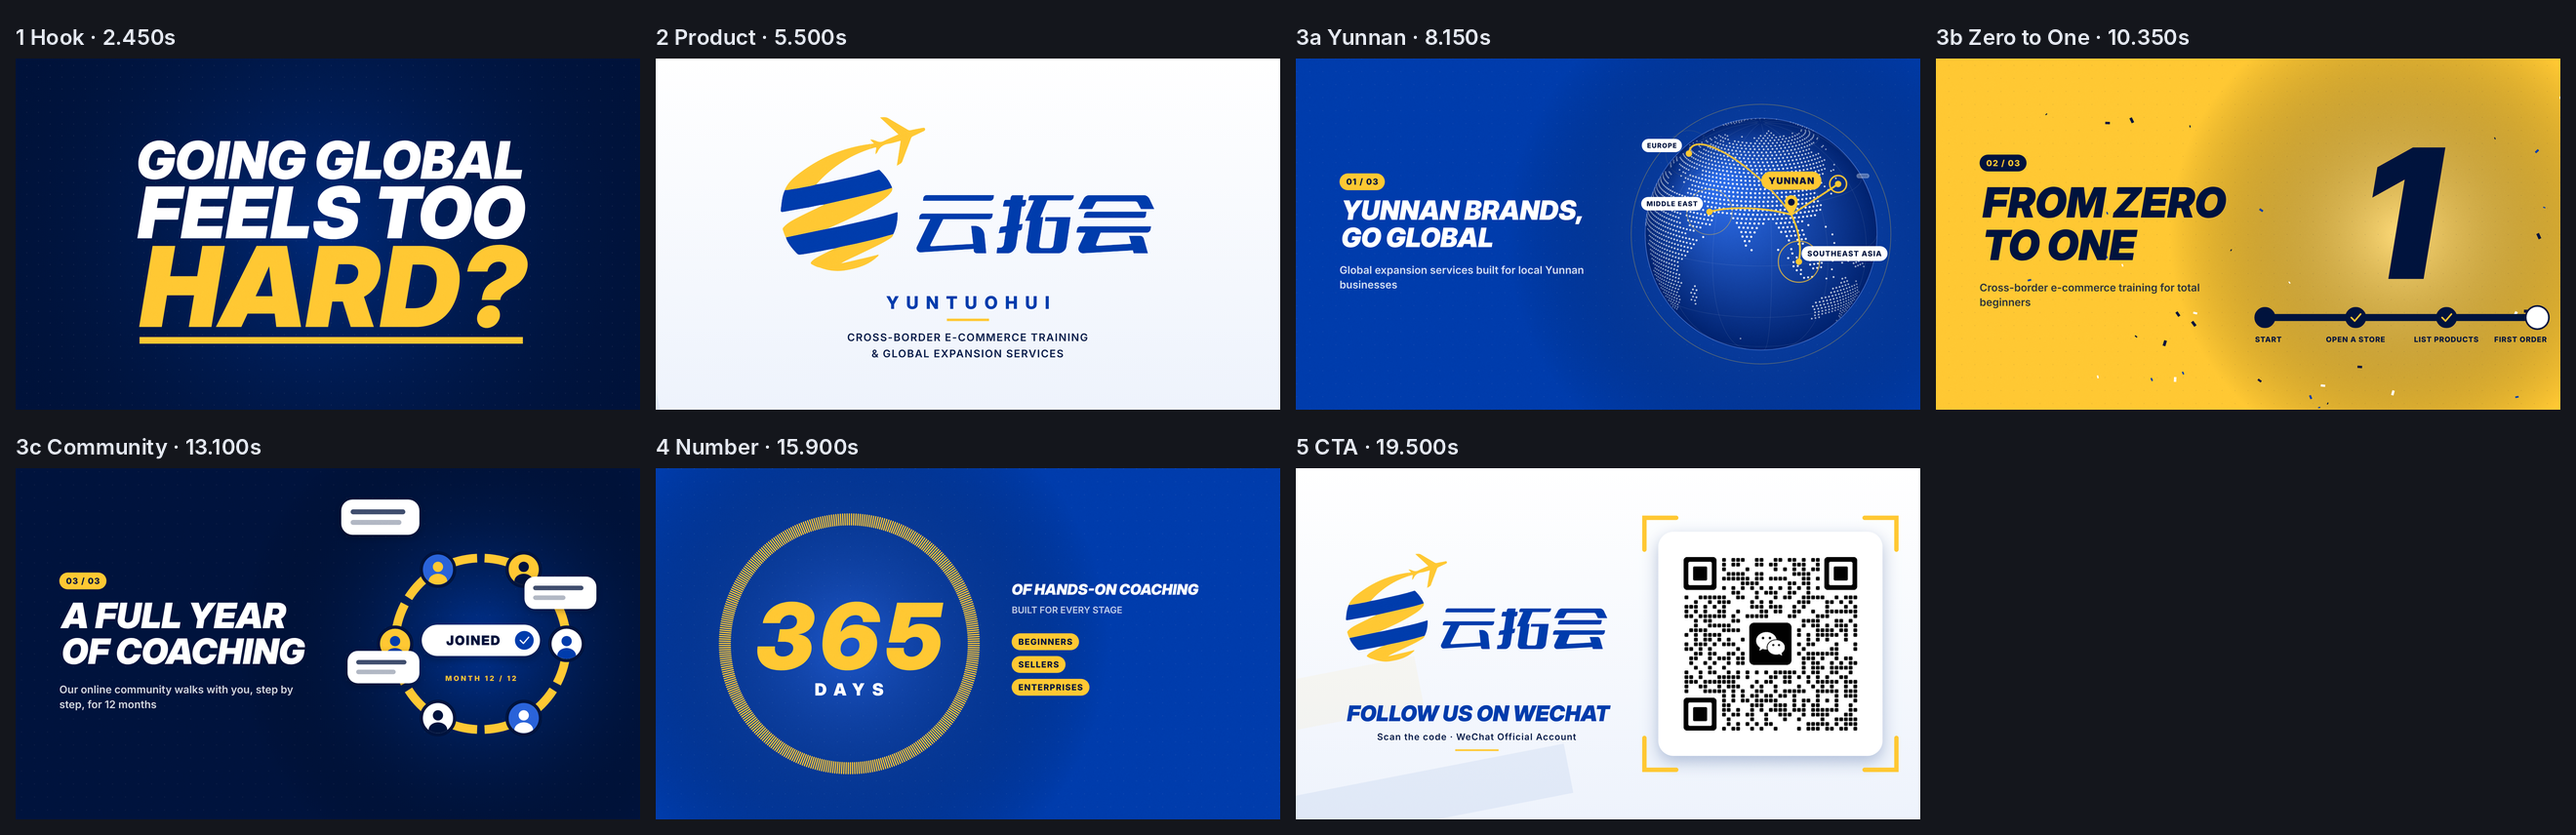
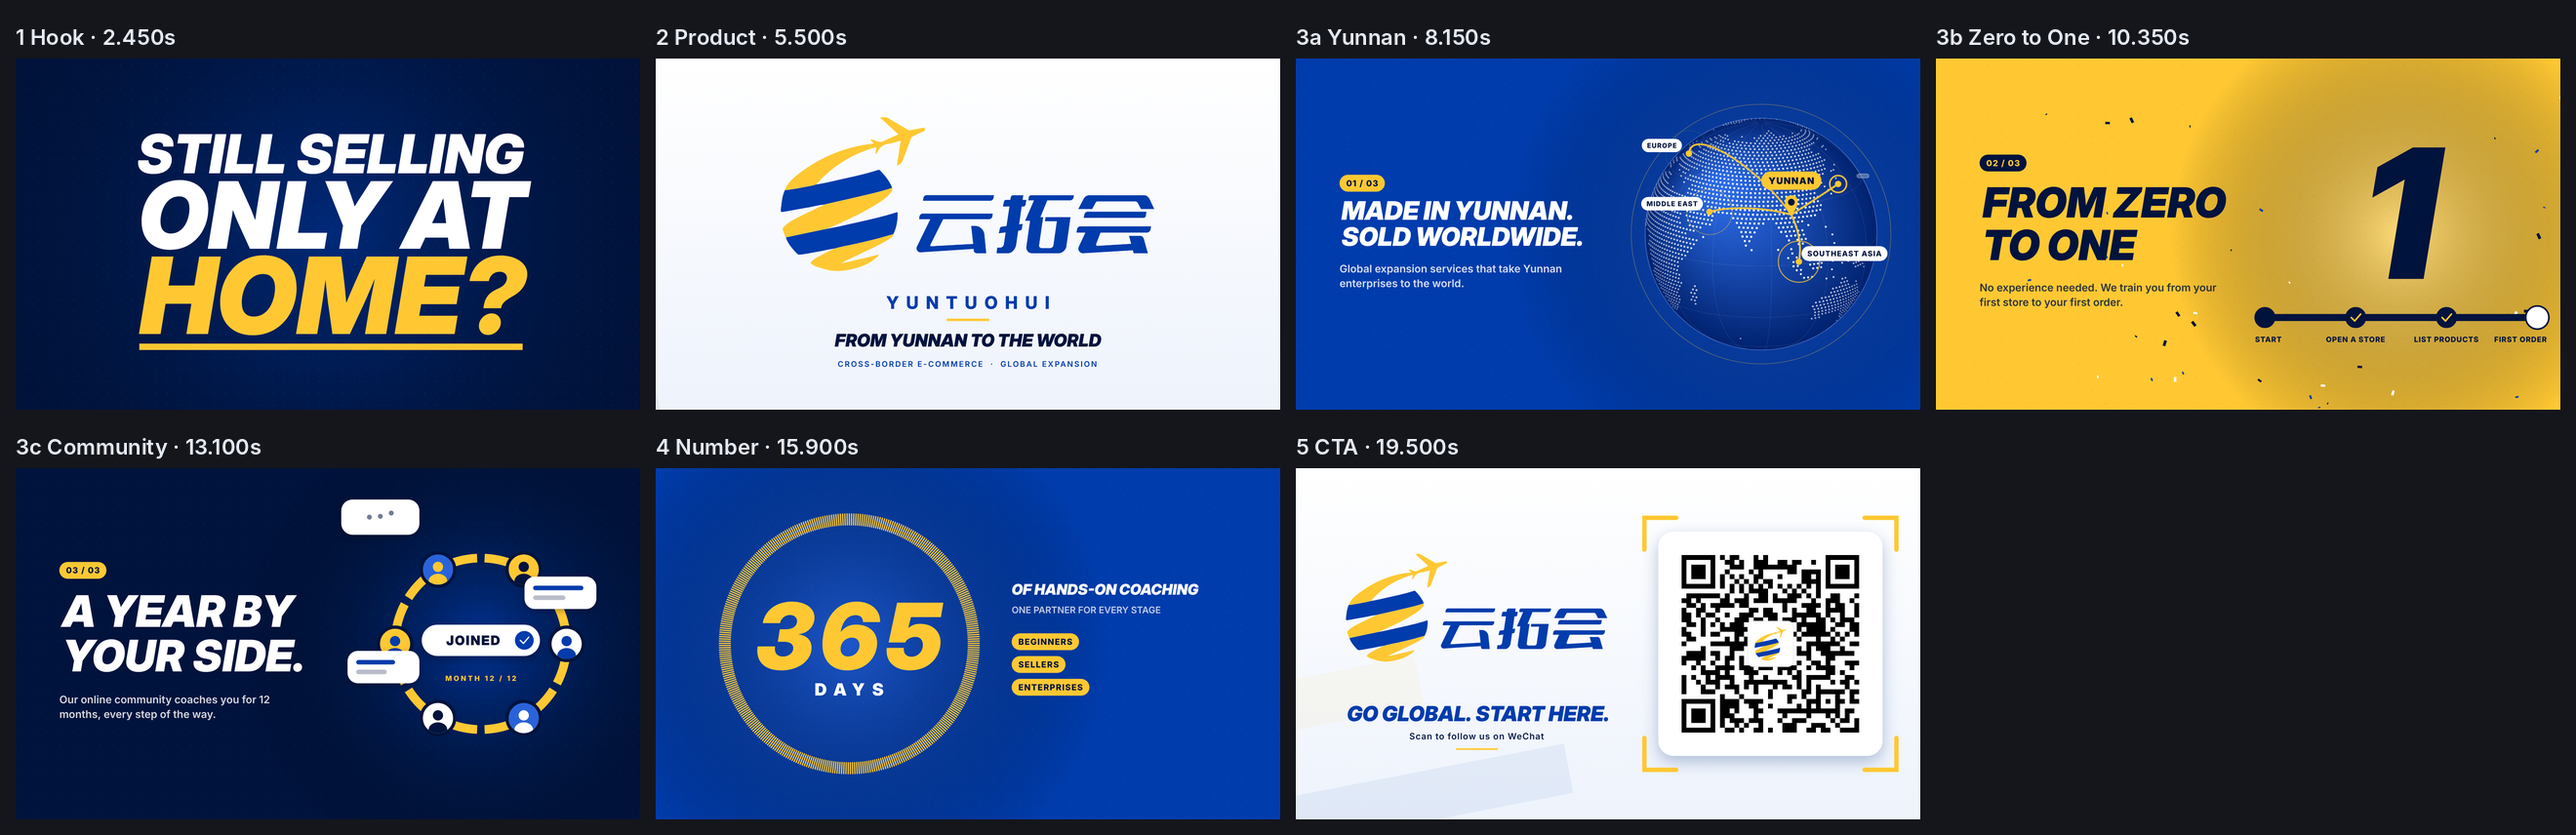
Promo: official-account QR (rebuilt crisp), sharper copy, typing chat bubbles
Claude-Session: https://claude.ai/code/session_01CCd3GVUn9hyy9iVoWSn4xC

diff --git a/promo/src/motion.js b/promo/src/motion.js
@@ -63,7 +63,8 @@ function asmCues(t0, sp, gain) {
 }
 asmCues(3.0, 1, 1);
 cue(4.5, 'tick', 0.7);
-for (let i = 0; i < 12; i++) cue(4.75 + i * 0.0625, 'type', 0.35);
+for (let i = 0; i < 8; i++) cue(5.0 + i * 0.0625, 'type', 0.35);
+cue(4.75, 'swish', 0.5);
 // F1 globe
 cue(7.0, 'click'); cue(7.0, 'drop', 0.8);
 const ROUTES = [
@@ -177,9 +178,9 @@ function layout() {
   const m = P ? 0.075 * W : L ? 0.07 * W : 0.08 * W;
   const lay = { m };
   // hook lines
-  lay.hookLines = P ? [['GOING'], ['GLOBAL'], ['FEELS'], ['TOO'], ['HARD?']]
-    : L ? [['GOING', 'GLOBAL'], ['FEELS', 'TOO'], ['HARD?']]
-      : [['GOING'], ['GLOBAL'], ['FEELS', 'TOO'], ['HARD?']];
+  lay.hookLines = P ? [['STILL'], ['SELLING'], ['ONLY'], ['AT', 'HOME?']]
+    : L ? [['STILL', 'SELLING'], ['ONLY', 'AT'], ['HOME?']]
+      : [['STILL'], ['SELLING'], ['ONLY', 'AT'], ['HOME?']];
   const maxH = P ? H * 0.66 : H * 0.8;
   const contentW = L ? W * 0.62 : W - 2 * m;
   let sizes = lay.hookLines.map(l => fitSize(l.join(' '), 900, DISPLAY, contentW));
@@ -209,7 +210,7 @@ function layout() {
     const my = (P ? 0.31 : 0.25) * H - (LOGO.mark.h * mk) / 2;
     const wy = my + LOGO.mark.h * mk + (P ? 0.045 : 0.05) * H;
     const ty = wy + LOGO.word.h * wk + (P ? 0.075 : 0.08) * H;
-    const bottom = ty + Math.min(W, H) * (0.05 * 0.9 + 0.034 * 3.1);
+    const bottom = ty + Math.min(W, H) * (0.05 * 0.9 + 0.058 * 1.25 + 0.026 * 2.6);
     const dy = H * 0.5 - (my + bottom) / 2;
     lay.logo = { mx: (W - mw) / 2, my: my + dy, mk, wx: (W - ww) / 2, wy: wy + dy, wk, ty: ty + dy };
   }
@@ -341,7 +342,7 @@ function sceneHook(t) {
       if (t < wd.t) return;
       const a = prog(t, wd.t, wd.t + 0.24), e = E.outExpo(a);
       const s = lerp(2.1, 1, e);
-      const last = wd.w === 'HARD?';
+      const last = wd.t === SLAMS[SLAMS.length - 1];
       const cx = wd.x + wd.wd / 2, cy = line.base - (line.size * CAP) / 2;
       const draw = (scale, alpha, color, ox = 0) => {
         ctx.save(); ctx.globalAlpha = alpha; ctx.fillStyle = color; ctx.font = font(900, line.size);
@@ -413,17 +414,21 @@ function sceneLogo(t) {
     ctx.fillText('YUNTUOHUI', W / 2 + size * 0.21, L.ty + (1 - np) * size * 1.3);
     ctx.restore(); ctx.letterSpacing = '0px';
   }
-  const tag = ['CROSS-BORDER E-COMMERCE TRAINING', '& GLOBAL EXPANSION SERVICES'];
-  const ts = Math.min(W, H) * (KIND === 'landscape' ? 0.03 : 0.034);
-  const chars = Math.floor(prog(u, 1.75, 2.5) * (tag[0].length + tag[1].length));
-  ctx.font = font(600, ts, BODY); ctx.fillStyle = C.ink; ctx.letterSpacing = `${ts * 0.08}px`;
-  let left = chars;
-  tag.forEach((line, i) => {
-    const s = line.slice(0, Math.max(0, left)); left -= line.length;
-    const full = ctx.measureText(line).width;
-    ctx.textAlign = 'left';
-    ctx.fillText(s, W / 2 - full / 2, L.ty + size * 0.9 + ts * 1.55 * (i + 1));
-  });
+  const hs = Math.min(W, H) * (KIND === 'landscape' ? 0.05 : 0.058);
+  const hy = L.ty + size * 0.9 + hs * 1.25, hp = E.outExpo(prog(u, 1.75, 2.2));
+  if (hp > 0) {
+    ctx.save(); ctx.beginPath(); ctx.rect(0, hy - hs * 0.95, W, hs * 1.2); ctx.clip();
+    ctx.fillStyle = C.navy; ctx.font = font(900, hs); ctx.textAlign = 'center';
+    skewText('FROM YUNNAN TO THE WORLD', W / 2, hy + (1 - hp) * hs * 1.2);
+    ctx.restore();
+  }
+  const tag = 'CROSS-BORDER E-COMMERCE  ·  GLOBAL EXPANSION';
+  const ts = Math.min(W, H) * (KIND === 'landscape' ? 0.022 : 0.026);
+  const chars = Math.floor(prog(u, 2.0, 2.5) * tag.length);
+  ctx.font = font(600, ts, BODY); ctx.fillStyle = C.blue; ctx.letterSpacing = `${ts * 0.16}px`;
+  const full = ctx.measureText(tag).width;
+  ctx.textAlign = 'left';
+  ctx.fillText(tag.slice(0, chars), W / 2 - full / 2, hy + ts * 2.6);
   ctx.letterSpacing = '0px';
   // yellow accent bar
   const bp = E.outExpo(prog(u, 1.6, 2.1));
@@ -561,7 +566,7 @@ function sceneF1(t) {
   }
   const away = E.inCubic(prog(t, 7.35, 7.9));
   cursor(cx + away * I.R * 0.9, cy + away * I.R * 1.1, press, 1 - prog(t, 7.7, 7.9));
-  featureText(t, t0, 1, ['YUNNAN BRANDS,', 'GO GLOBAL'], 'Global expansion services built for local Yunnan businesses', '#fff', C.yellow, C.navy);
+  featureText(t, t0, 1, ['MADE IN YUNNAN.', 'SOLD WORLDWIDE.'], 'Global expansion services that take Yunnan enterprises to the world.', '#fff', C.yellow, C.navy);
 }
 
 // --- F2: zero to one
@@ -634,7 +639,7 @@ function sceneF2(t) {
   const press = t >= 9.0 && t < 9.8 ? 1 : Math.max(0, 1 - Math.abs(t - 9.0) / 0.08);
   clickFx(t, 9.0, x0, ty, C.navy);
   cursor(cx + R * 0.02 + rel * R * 0.5, cy + R * 0.02 + rel * R * 0.8, press, ip * (1 - prog(t, 10.1, 10.3)));
-  featureText(t, t0, 2, ['FROM ZERO', 'TO ONE'], 'Cross-border e-commerce training for total beginners', C.navy, C.navy, C.yellow);
+  featureText(t, t0, 2, ['FROM ZERO', 'TO ONE'], 'No experience needed. We train you from your first store to your first order.', C.navy, C.navy, C.yellow);
 }
 
 // --- F3: one-year community coaching
@@ -720,15 +725,23 @@ function sceneF3(t) {
     ctx.fillStyle = '#fff'; ctx.shadowColor = 'rgba(0,0,0,.3)'; ctx.shadowBlur = 20 * S; ctx.shadowOffsetY = 6 * S;
     const ox = side > 0 ? 0 : -bw2;
     rrect(ox, -bh2, bw2, bh2, bh2 * 0.32); ctx.fill(); ctx.shadowColor = 'transparent';
-    ctx.fillStyle = 'rgba(0,19,61,.75)'; rrect(ox + bw2 * 0.12, -bh2 * 0.72, bw2 * 0.7, bh2 * 0.14, bh2 * 0.07); ctx.fill();
-    ctx.fillStyle = 'rgba(0,19,61,.3)'; rrect(ox + bw2 * 0.12, -bh2 * 0.42, bw2 * (0.45 + 0.1 * k), bh2 * 0.14, bh2 * 0.07); ctx.fill();
+    const typing = t < bt + 0.4, wr = E.outExpo(prog(t, bt + 0.4, bt + 0.75));
+    if (typing) {
+      for (let d = 0; d < 3; d++) {
+        const j = Math.max(0, Math.sin((t - bt) * 18 - d * 1.1)) * bh2 * 0.12;
+        ctx.fillStyle = 'rgba(0,19,61,.55)'; ctx.beginPath(); ctx.arc(ox + bw2 * (0.36 + d * 0.14), -bh2 * 0.5 - j, bh2 * 0.07, 0, 7); ctx.fill();
+      }
+    } else {
+      ctx.fillStyle = C.blue; rrect(ox + bw2 * 0.12, -bh2 * 0.72, bw2 * 0.7 * wr, bh2 * 0.14, bh2 * 0.07); ctx.fill();
+      ctx.fillStyle = 'rgba(0,19,61,.28)'; rrect(ox + bw2 * 0.12, -bh2 * 0.42, bw2 * (0.45 + 0.1 * k) * wr, bh2 * 0.14, bh2 * 0.07); ctx.fill();
+    }
     ctx.restore();
   });
   // cursor
   const ca = E.inOutCubic(prog(t, t0 + 0.12, t0 + 0.45));
   const away = E.inCubic(prog(t, 11.75, 12.3));
   cursor(lerp(I.cx + R * 1.2, I.cx + R * 0.12, ca) + away * R, lerp(I.cy + R * 1.4, I.cy + R * 0.02, ca) + away * R * 1.2, press, ip * (1 - prog(t, 12.1, 12.3)));
-  featureText(t, t0, 3, ['A FULL YEAR', 'OF COACHING'], 'Our online community walks with you, step by step, for 12 months', '#fff', C.yellow, C.navy);
+  featureText(t, t0, 3, ['A YEAR BY', 'YOUR SIDE.'], 'Our online community coaches you for 12 months, every step of the way.', '#fff', C.yellow, C.navy);
 }
 
 // --- metric: 365
@@ -779,7 +792,7 @@ function sceneMetric(t) {
   const sp = E.outExpo(prog(t, 14.7, 15.1));
   ctx.save(); ctx.globalAlpha = sp; ctx.fillStyle = '#fff'; ctx.textAlign = M.align;
   ctx.font = font(900, ss);
-  const l1 = 'OF HANDS-ON COACHING', l2 = 'BUILT FOR EVERY STAGE';
+  const l1 = 'OF HANDS-ON COACHING', l2 = 'ONE PARTNER FOR EVERY STAGE';
   skewText(l1, M.tx, M.ty + (1 - sp) * 30 * S, 0.1);
   ctx.globalAlpha = sp * 0.75; ctx.font = font(600, ss * 0.62, BODY);
   ctx.fillText(l2, M.tx, M.ty + ss * 1.25);
@@ -834,16 +847,16 @@ function sceneCTA(t) {
   }
   // CTA copy
   const hp = E.outExpo(prog(t, 17.3, 17.75));
-  const hs = Math.min(fitSize('FOLLOW US ON WECHAT', 900, DISPLAY, Q.tw), Math.min(W, H) * 0.085);
+  const hs = Math.min(fitSize('GO GLOBAL. START HERE.', 900, DISPLAY, Q.tw), Math.min(W, H) * 0.085);
   ctx.save(); ctx.textAlign = 'center';
   ctx.beginPath(); ctx.rect(0, Q.ty - hs * 0.95, W, hs * 1.2); ctx.clip();
   ctx.fillStyle = C.blue; ctx.font = font(900, hs);
-  skewText('FOLLOW US ON WECHAT', Q.tx + hs * 0.06, Q.ty + (1 - hp) * hs * 1.2, 0.1);
+  skewText('GO GLOBAL. START HERE.', Q.tx + hs * 0.06, Q.ty + (1 - hp) * hs * 1.2);
   ctx.restore();
   const ss = hs * 0.42, sp2 = E.outCubic(prog(t, 17.5, 17.9));
   ctx.save(); ctx.globalAlpha = sp2; ctx.fillStyle = C.ink; ctx.font = font(600, ss, BODY); ctx.textAlign = 'center';
   ctx.letterSpacing = `${ss * 0.06}px`;
-  ctx.fillText('Scan the code · WeChat Official Account', Q.tx, Q.ty + ss * 2.1);
+  ctx.fillText('Scan to follow us on WeChat', Q.tx, Q.ty + ss * 2.1);
   ctx.restore(); ctx.letterSpacing = '0px';
   const bar = E.outExpo(prog(t, 17.6, 18.1));
   if (bar > 0) { ctx.fillStyle = C.yellow; const bw = hs * 2 * bar; ctx.fillRect(Q.tx - bw / 2, Q.ty + ss * 3.1, bw, hs * 0.08); }
